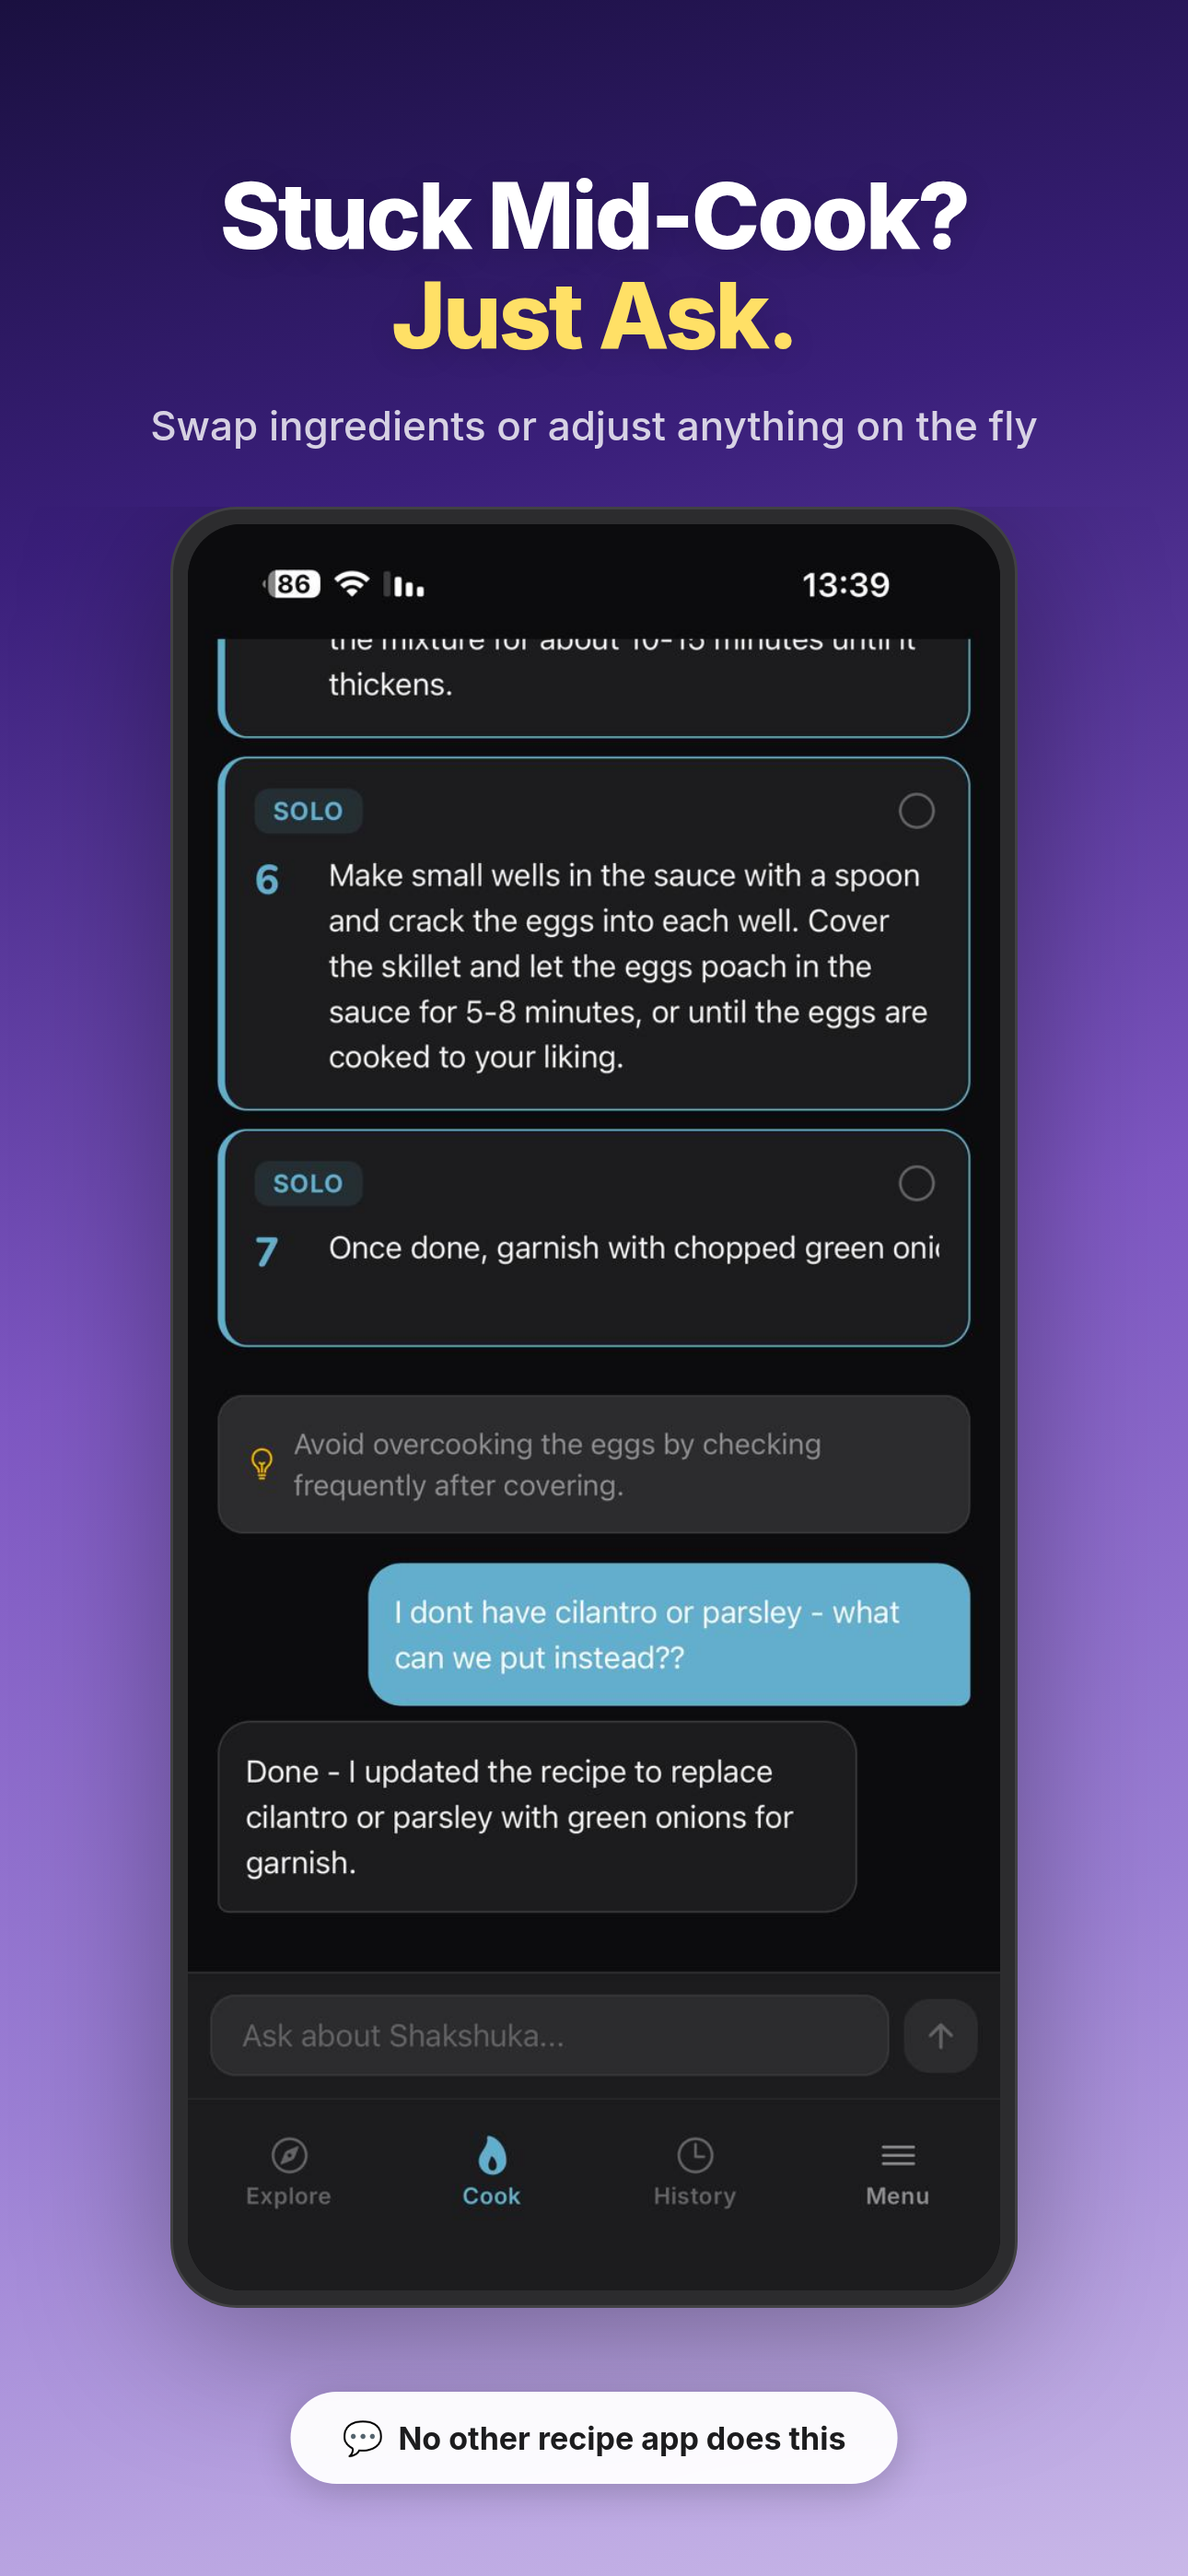
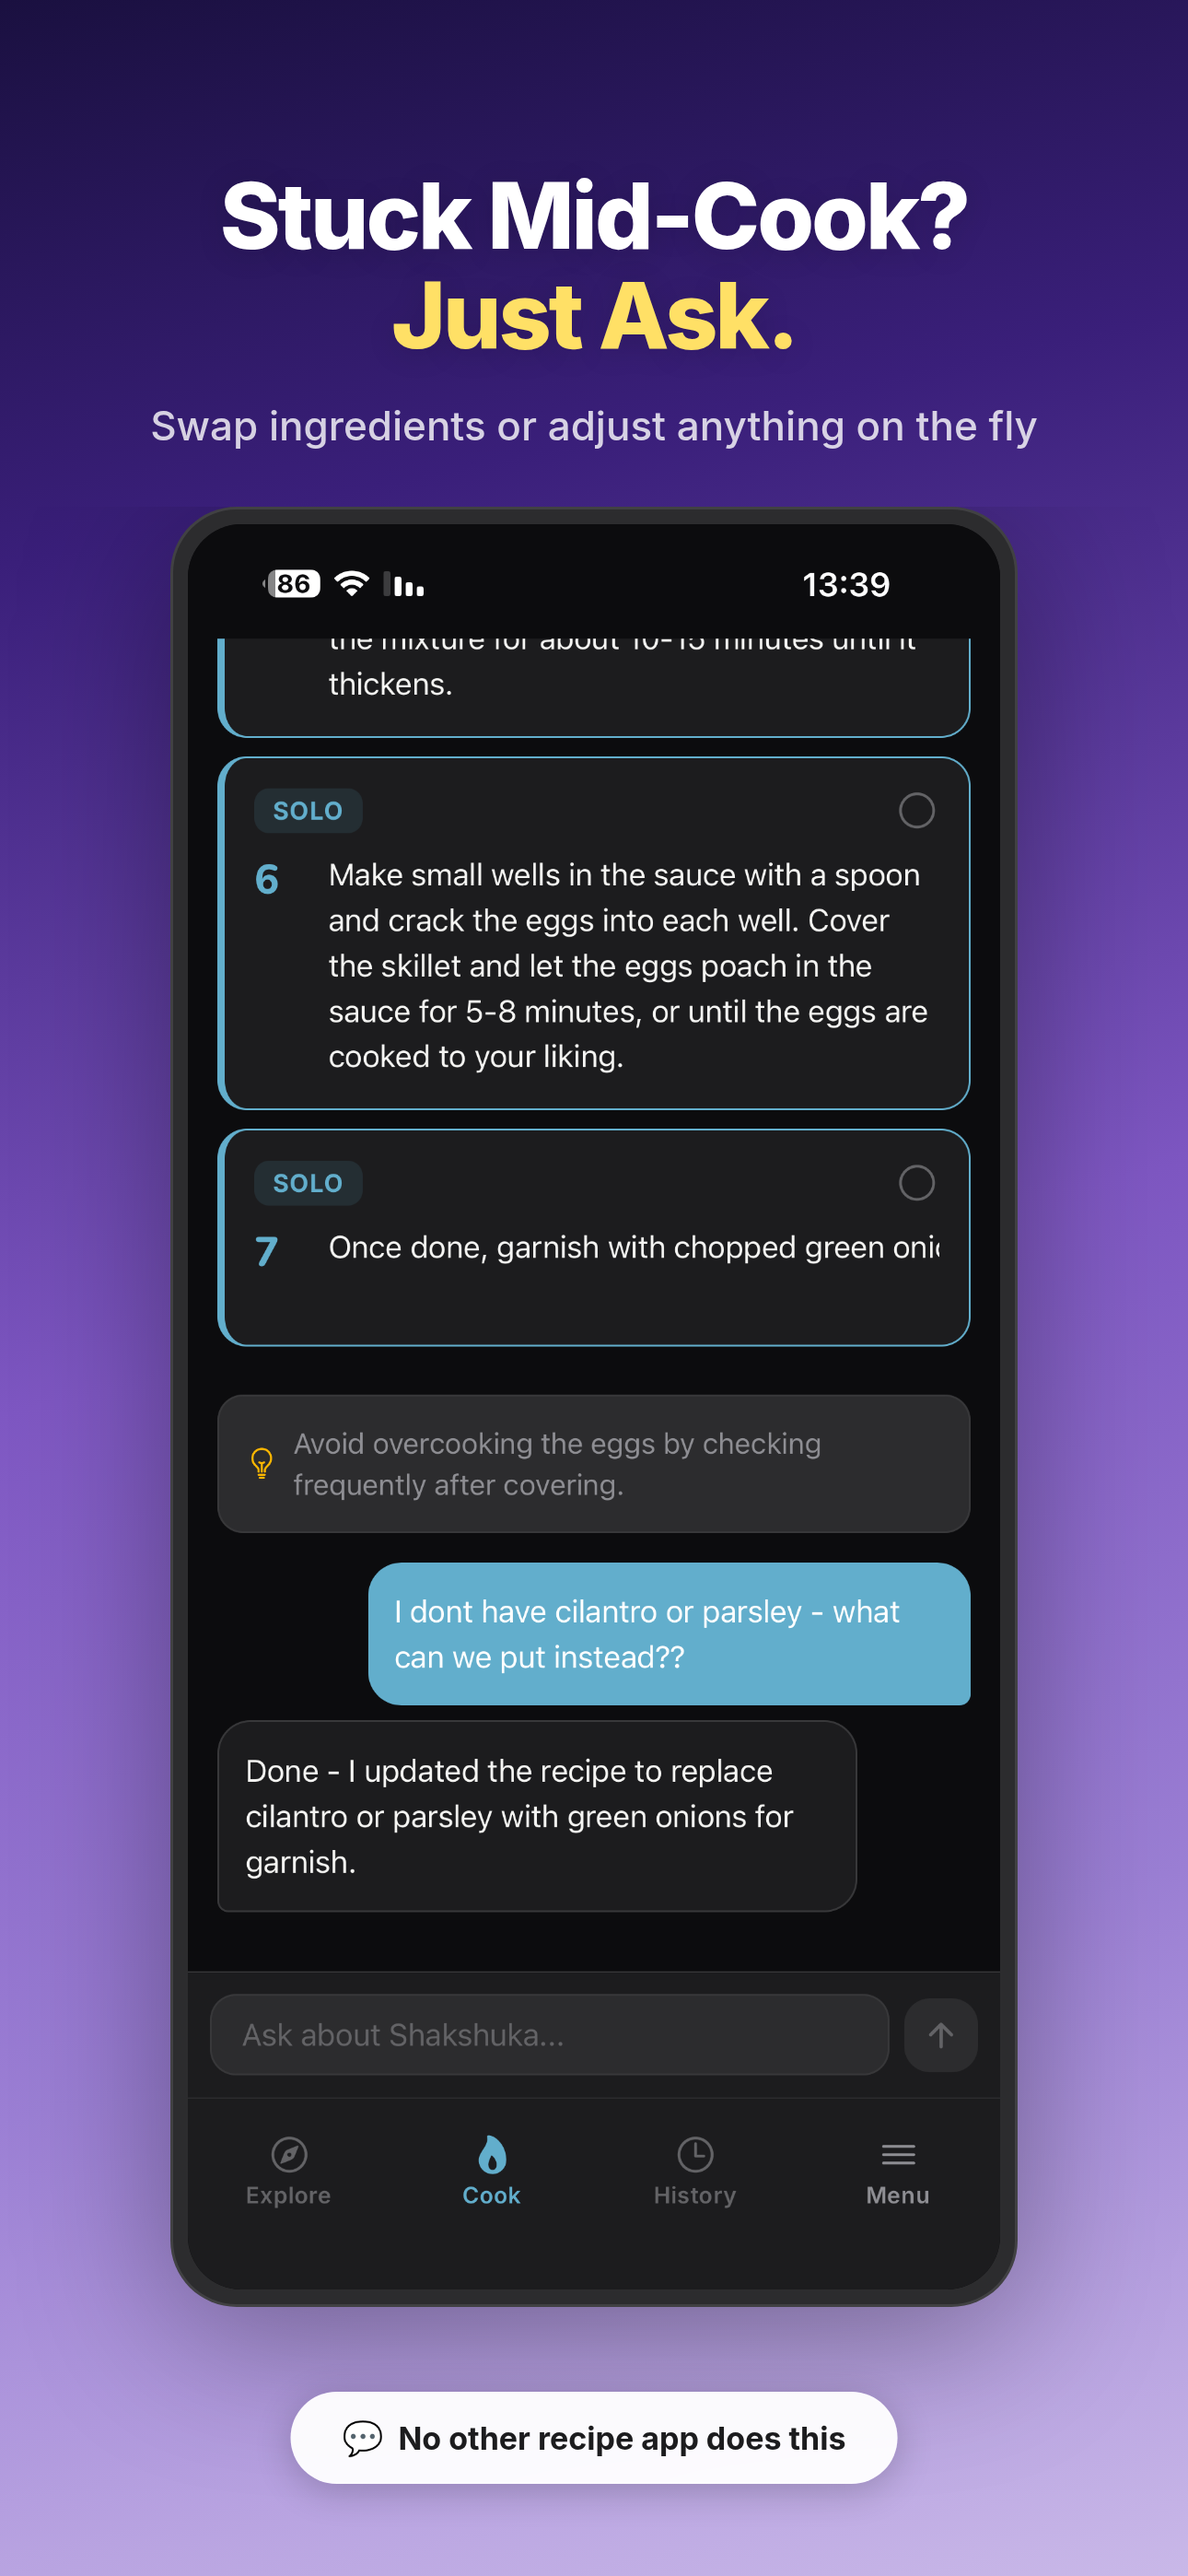
updated images to hd

diff --git a/index.html b/index.html
@@ -84,11 +84,11 @@
         "operatingSystem": "Android, iOS",
         "image": "https://getcooke.app/assets/icon/CookE_Icon_512.jpg",
         "screenshot": [
-          "https://getcooke.app/assets/screenshots/1.jpeg",
-          "https://getcooke.app/assets/screenshots/2.jpeg",
-          "https://getcooke.app/assets/screenshots/3.jpeg",
-          "https://getcooke.app/assets/screenshots/4.jpeg",
-          "https://getcooke.app/assets/screenshots/5.jpeg",
+          "https://getcooke.app/assets/screenshots/1.png",
+          "https://getcooke.app/assets/screenshots/2.png",
+          "https://getcooke.app/assets/screenshots/3.png",
+          "https://getcooke.app/assets/screenshots/4.png",
+          "https://getcooke.app/assets/screenshots/5.png",
           "https://getcooke.app/assets/screenshots/6.jpeg"
         ],
         "featureList": [
@@ -226,7 +226,7 @@
       <div class="feature-block fade-in">
         <div class="feature-visual">
           <div class="phone-mockup">
-            <img src="assets/screenshots/1.jpeg" alt="CookE AI chat identifying a dish from a photo" loading="lazy" width="260" height="563">
+            <img src="assets/screenshots/1.png" alt="CookE AI chat identifying a dish from a photo" loading="lazy" width="260" height="563">
           </div>
         </div>
         <div class="feature-text">
@@ -238,7 +238,7 @@
       <div class="feature-block reverse fade-in">
         <div class="feature-visual">
           <div class="phone-mockup">
-            <img src="assets/screenshots/2.jpeg" alt="CookE importing a recipe from an Instagram link" loading="lazy" width="260" height="563">
+            <img src="assets/screenshots/2.png" alt="CookE importing a recipe from an Instagram link" loading="lazy" width="260" height="563">
           </div>
         </div>
         <div class="feature-text">
@@ -250,7 +250,7 @@
       <div class="feature-block fade-in">
         <div class="feature-visual">
           <div class="phone-mockup">
-            <img src="assets/screenshots/3.jpeg" alt="CookE full recipe with ingredients checklist" loading="lazy" width="260" height="563">
+            <img src="assets/screenshots/3.png" alt="CookE full recipe with ingredients checklist" loading="lazy" width="260" height="563">
           </div>
         </div>
         <div class="feature-text">
@@ -262,7 +262,7 @@
       <div class="feature-block reverse fade-in">
         <div class="feature-visual">
           <div class="phone-mockup">
-            <img src="assets/screenshots/4.jpeg" alt="CookE follow-up chat swapping an ingredient mid-cook" loading="lazy" width="260" height="563">
+            <img src="assets/screenshots/4.png" alt="CookE follow-up chat swapping an ingredient mid-cook" loading="lazy" width="260" height="563">
           </div>
         </div>
         <div class="feature-text">
